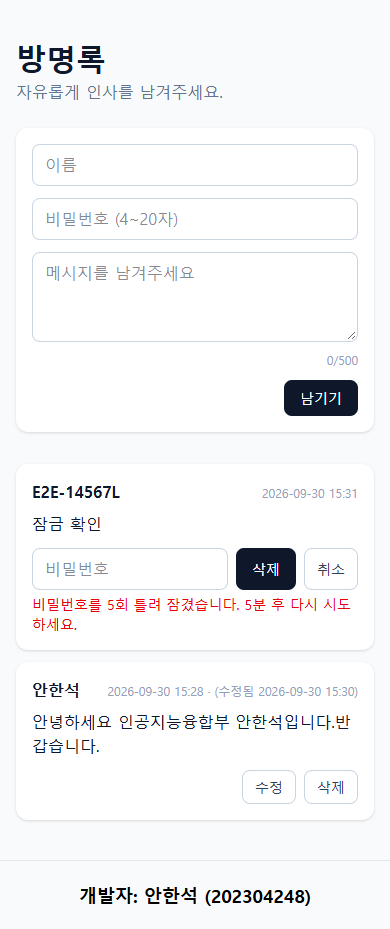
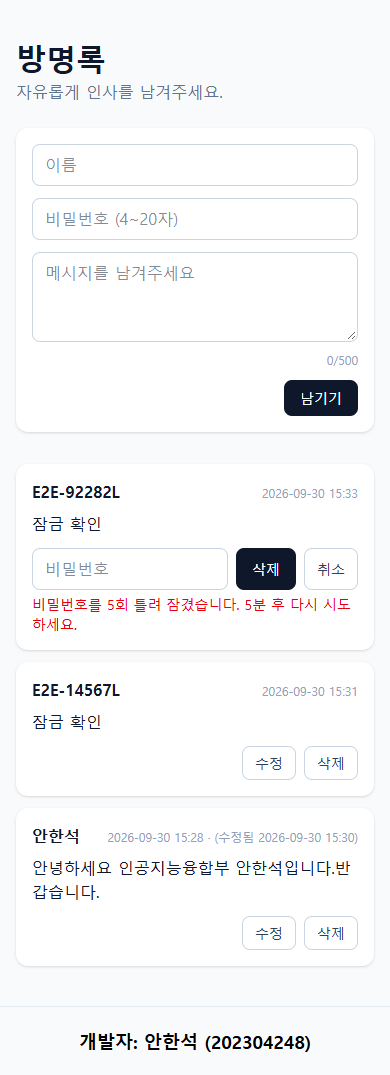
feat: 잠금 기준을 연속 5회에서 10회로 완화
채점 중 몇 번 틀려도 정상 비밀번호가 막히지 않도록 여유를 둔다.

diff --git a/src/lib/guestbook.test.ts b/src/lib/guestbook.test.ts
@@ -1,6 +1,6 @@
 import { beforeEach, describe, expect, it } from "vitest";
 import type { Db } from "@/db";
-import { createEntry, deleteEntry, editEntry, listEntries } from "./guestbook";
+import { createEntry, deleteEntry, editEntry, listEntries, MAX_ATTEMPTS } from "./guestbook";
 import { createTestDb } from "./test-db";
 
 let db: Db;
@@ -85,9 +85,9 @@ describe("삭제", () => {
 describe("잠금", () => {
   const wrongEdit = (id: number, now = t0) => editEntry(db, { id, message: "x", password: "0000" }, now);
 
-  it("틀릴 때마다 남은 시도 횟수가 줄고, 5번째에 5분간 잠긴다", async () => {
+  it("틀릴 때마다 남은 시도 횟수가 줄고, 10번째에 5분간 잠긴다", async () => {
     const id = await write();
-    for (const remaining of [4, 3, 2, 1]) {
+    for (let remaining = MAX_ATTEMPTS - 1; remaining >= 1; remaining--) {
       expect(await wrongEdit(id)).toMatchObject({ reason: "wrong_password", remainingAttempts: remaining });
     }
     expect(await wrongEdit(id)).toMatchObject({ reason: "locked", retryAfterMinutes: 5 });
@@ -95,7 +95,7 @@ describe("잠금", () => {
 
   it("잠긴 동안에는 올바른 비밀번호도 거부하고, 남은 시간을 분 단위 올림으로 알려준다", async () => {
     const id = await write();
-    for (let i = 0; i < 5; i++) await wrongEdit(id);
+    for (let i = 0; i < MAX_ATTEMPTS; i++) await wrongEdit(id);
     expect(await deleteEntry(db, { id, password: "1234" }, at(2.5))).toMatchObject({
       reason: "locked",
       retryAfterMinutes: 3,
@@ -105,8 +105,8 @@ describe("잠금", () => {
 
   it("5분이 지나면 올바른 비밀번호가 통하고, 틀리면 다시 1회째부터 센다", async () => {
     const id = await write();
-    for (let i = 0; i < 5; i++) await wrongEdit(id);
-    expect(await wrongEdit(id, at(5))).toMatchObject({ reason: "wrong_password", remainingAttempts: 4 });
+    for (let i = 0; i < MAX_ATTEMPTS; i++) await wrongEdit(id);
+    expect(await wrongEdit(id, at(5))).toMatchObject({ reason: "wrong_password", remainingAttempts: MAX_ATTEMPTS - 1 });
     expect(await editEntry(db, { id, message: "풀림", password: "1234" }, at(5))).toEqual({ ok: true });
   });
 
@@ -114,19 +114,19 @@ describe("잠금", () => {
     const id = await write();
     for (let i = 0; i < 3; i++) await wrongEdit(id);
     await editEntry(db, { id, message: "성공", password: "1234" }, t0);
-    expect(await wrongEdit(id)).toMatchObject({ remainingAttempts: 4 });
+    expect(await wrongEdit(id)).toMatchObject({ remainingAttempts: MAX_ATTEMPTS - 1 });
   });
 
   it("수정과 삭제의 실패를 합쳐서 센다", async () => {
     const id = await write();
     await wrongEdit(id);
-    expect(await deleteEntry(db, { id, password: "0000" }, t0)).toMatchObject({ remainingAttempts: 3 });
+    expect(await deleteEntry(db, { id, password: "0000" }, t0)).toMatchObject({ remainingAttempts: MAX_ATTEMPTS - 2 });
   });
 
   it("한 글이 잠겨도 다른 글은 영향이 없다", async () => {
     const locked = await write("A");
     const other = await write("B");
-    for (let i = 0; i < 5; i++) await wrongEdit(locked);
+    for (let i = 0; i < MAX_ATTEMPTS; i++) await wrongEdit(locked);
     expect(await deleteEntry(db, { id: other, password: "1234" }, t0)).toEqual({ ok: true });
   });
 });

diff --git a/src/lib/guestbook.ts b/src/lib/guestbook.ts
@@ -27,7 +27,7 @@ export type ModifyResult =
   | { ok: false; reason: "locked"; retryAfterMinutes: number };
 
 /** 한 글에 연속으로 틀릴 수 있는 횟수와 잠금 시간 (ADR 0001) */
-export const MAX_ATTEMPTS = 5;
+export const MAX_ATTEMPTS = 10;
 export const LOCK_MINUTES = 5;
 
 const LABELS = { authorName: "이름", message: "메시지", password: "비밀번호" } as const;

diff --git a/docs/spec.md b/docs/spec.md
@@ -8,7 +8,7 @@
 
 ## Solution
 
-한 페이지짜리 방명록이다. 누구나 **작성자 이름**, **메시지**, **비밀번호**를 입력해 글을 남기고, 모든 글이 **작성 시각** 최신순으로 보인다. 글을 쓸 때 정한 비밀번호를 다시 입력해야만 그 글의 메시지를 수정하거나 글을 삭제할 수 있다. 비밀번호가 틀리면 거부 사유와 남은 시도 횟수를 안내하고, 연속 5회 틀리면 그 글은 5분간 **잠금** 상태가 된다. 화면 하단에는 **개발자 정보**(안한석, 202304248)가 표시된다.
+한 페이지짜리 방명록이다. 누구나 **작성자 이름**, **메시지**, **비밀번호**를 입력해 글을 남기고, 모든 글이 **작성 시각** 최신순으로 보인다. 글을 쓸 때 정한 비밀번호를 다시 입력해야만 그 글의 메시지를 수정하거나 글을 삭제할 수 있다. 비밀번호가 틀리면 거부 사유와 남은 시도 횟수를 안내하고, 연속 10회 틀리면 그 글은 5분간 **잠금** 상태가 된다. 화면 하단에는 **개발자 정보**(안한석, 202304248)가 표시된다.
 
 ## User Stories
 
@@ -55,9 +55,9 @@
 
 ### 잠금
 34. 글쓴이로서, 남이 내 글의 비밀번호를 무한정 추측하지 못하길 원한다.
-35. 방문자로서, 한 글에 비밀번호를 연속 5회 틀리면 "비밀번호를 5회 틀려 잠겼습니다. N분 후 다시 시도하세요."를 보고 싶다.
+35. 방문자로서, 한 글에 비밀번호를 연속 10회 틀리면 "비밀번호를 10회 틀려 잠겼습니다. N분 후 다시 시도하세요."를 보고 싶다.
 36. 글쓴이로서, 잠긴 동안에는 올바른 비밀번호도 거부된다는 것을 이해하고, 남은 시간을 안내받고 싶다.
-37. 글쓴이로서, 5분이 지나면 다시 수정·삭제를 시도할 수 있고 시도 횟수도 5회로 돌아오길 원한다.
+37. 글쓴이로서, 5분이 지나면 다시 수정·삭제를 시도할 수 있고 시도 횟수도 10회로 돌아오길 원한다.
 38. 글쓴이로서, 비밀번호를 한 번 맞히면 그전 실패 횟수가 초기화되길 원한다.
 39. 방문자로서, 수정 실패와 삭제 실패가 합산되어 세어진다는 것을 남은 시도 횟수로 알 수 있길 원한다.
 40. 방문자로서, 한 글이 잠겨도 다른 글의 수정·삭제는 영향을 받지 않길 원한다.
@@ -80,7 +80,7 @@
 - **스키마**: `entries` 테이블 1개 — id, author_name, message, password_hash, created_at, updated_at(수정 시에만 값), failed_attempts(기본 0), locked_until(nullable). created_at 인덱스.
 - **비밀번호**: bcrypt 해시로 저장하고 비교는 서버에서만 한다. 해시는 클라이언트로 절대 내려가지 않는다.
 - **입력 검증**: 앞뒤 공백 제거 후 이름 1–20자, 메시지 1–500자, 비밀번호 4–20자. 서버에서 반드시 검사한다(클라이언트 검사는 편의용).
-- **잠금 규칙** ([ADR 0001](./adr/0001-글-단위-잠금.md)): 글 단위로 연속 실패를 센다. 수정·삭제 합산. 5회째 실패 시 locked_until = now + 5분. 잠금 중에는 비밀번호를 비교하지 않고 거부. 성공 시, 또는 잠금 시각이 지난 뒤 첫 시도 시 횟수 초기화. 동시 요청에서 횟수가 어긋나지 않도록 증가는 한 번의 UPDATE로 처리한다.
+- **잠금 규칙** ([ADR 0001](./adr/0001-글-단위-잠금.md)): 글 단위로 연속 실패를 센다. 수정·삭제 합산. 10회째 실패 시 locked_until = now + 5분. 잠금 중에는 비밀번호를 비교하지 않고 거부. 성공 시, 또는 잠금 시각이 지난 뒤 첫 시도 시 횟수 초기화. 동시 요청에서 횟수가 어긋나지 않도록 증가는 한 번의 UPDATE로 처리한다.
 - **시각 표시**: DB에는 timestamptz(UTC)로 저장하고, 화면에서 Asia/Seoul로 변환해 `YYYY-MM-DD HH:mm`으로 표시한다. 남은 잠금 시간은 분 단위 올림.
 - **UI**: 단일 페이지. 상단 작성 폼, 그 아래 목록, 하단 푸터(개발자 정보). 수정·삭제는 글 카드 안에서 펼치는 인라인 폼. 변경 후 목록은 경로 재검증으로 갱신.
 - **DB 연결**: neon.tech에서 `guestbook-202304248` 프로젝트를 직접 만들고 `DATABASE_URL`을 로컬 `.env.local`과 Vercel 환경변수에 수동으로 넣는다.
@@ -92,8 +92,8 @@
 - **좋은 테스트의 기준**: 방명록 모듈의 공개 함수만 호출하고, 반환 결과와 이후 `listEntries()`로 보이는 상태만 검증한다. 내부 SQL, 해시 함수 호출 여부, 칸 이름 같은 구현 세부는 검증하지 않는다.
 - **테스트 경계는 방명록 모듈 하나**다. Server Actions와 UI는 얇은 전달 계층이라 자동 테스트하지 않고, 배포 URL에서 수동으로 CRUD를 확인한다.
 - **DB**: 테스트에서는 PGlite(프로세스 안에서 도는 Postgres)에 같은 마이그레이션을 적용해 쓴다. Neon에 접속하지 않는다.
-- **시계**: `now`를 주입해 "5회 실패 → 잠금 → 5분 후 해제"를 기다리지 않고 검증한다.
-- **다룰 시나리오**: 작성 성공/필드별 거부, 최신순 정렬, 수정 후 순서 유지와 수정됨 표시, 올바른/틀린 비밀번호의 수정·삭제, 남은 시도 횟수 감소, 5회째 잠금, 잠금 중 올바른 비밀번호 거부, 5분 후 해제와 횟수 초기화, 성공 시 초기화, 수정·삭제 실패 합산, 다른 글은 영향 없음, 없는 글, 목록에 해시가 노출되지 않음.
+- **시계**: `now`를 주입해 "10회 실패 → 잠금 → 5분 후 해제"를 기다리지 않고 검증한다.
+- **다룰 시나리오**: 작성 성공/필드별 거부, 최신순 정렬, 수정 후 순서 유지와 수정됨 표시, 올바른/틀린 비밀번호의 수정·삭제, 남은 시도 횟수 감소, 10회째 잠금, 잠금 중 올바른 비밀번호 거부, 5분 후 해제와 횟수 초기화, 성공 시 초기화, 수정·삭제 실패 합산, 다른 글은 영향 없음, 없는 글, 목록에 해시가 노출되지 않음.
 - **선례**: 저장소가 비어 있어 기존 테스트는 없다. 이 모듈 테스트가 첫 선례가 된다.
 
 ## Out of Scope

diff --git a/docs/adr/0001-글-단위-잠금.md b/docs/adr/0001-글-단위-잠금.md
@@ -1,8 +1,8 @@
 # 비밀번호 불일치 잠금은 글 단위로 센다
 
-비밀번호 무차별 대입을 막기 위해, 한 글에 비밀번호 불일치가 연속 5회 쌓이면 그 글의 수정·삭제를 5분간 누구에게도 허용하지 않는다. 실패 횟수는 시도한 사람(IP)과 무관하게 글 단위로 세며, 글 테이블에 `failed_attempts`, `locked_until` 두 칸으로 저장한다.
+비밀번호 무차별 대입을 막기 위해, 한 글에 비밀번호 불일치가 연속 10회 쌓이면 그 글의 수정·삭제를 5분간 누구에게도 허용하지 않는다. 실패 횟수는 시도한 사람(IP)과 무관하게 글 단위로 세며, 글 테이블에 `failed_attempts`, `locked_until` 두 칸으로 저장한다.
 
 ## Consequences
 
-- 제3자가 일부러 틀린 비밀번호를 5번 넣어 작성자 본인을 5분간 막을 수 있다. 잠금이 짧아 피해가 작고, IP를 저장하지 않아도 되므로 이 약점을 받아들였다.
+- 제3자가 일부러 틀린 비밀번호를 10번 넣어 작성자 본인을 5분간 막을 수 있다. 잠금이 짧아 피해가 작고, IP를 저장하지 않아도 되므로 이 약점을 받아들였다.
 - IP 기준으로 바꾸려면 별도 시도 기록 테이블이 필요하다.

diff --git a/CONTEXT.md b/CONTEXT.md
@@ -32,7 +32,7 @@ _Avoid_: 등록일, 날짜
 _Avoid_: 인증 실패, 로그인 실패
 
 **잠금 (Lockout)**:
-한 글에 비밀번호 불일치가 연속 5회 쌓여, 5분 동안 그 글의 수정·삭제가 누구에게도 허용되지 않는 상태. 올바른 비밀번호도 거부된다.
+한 글에 비밀번호 불일치가 연속 10회 쌓여, 5분 동안 그 글의 수정·삭제가 누구에게도 허용되지 않는 상태. 올바른 비밀번호도 거부된다.
 _Avoid_: 차단, 정지
 
 **개발자 정보**:
